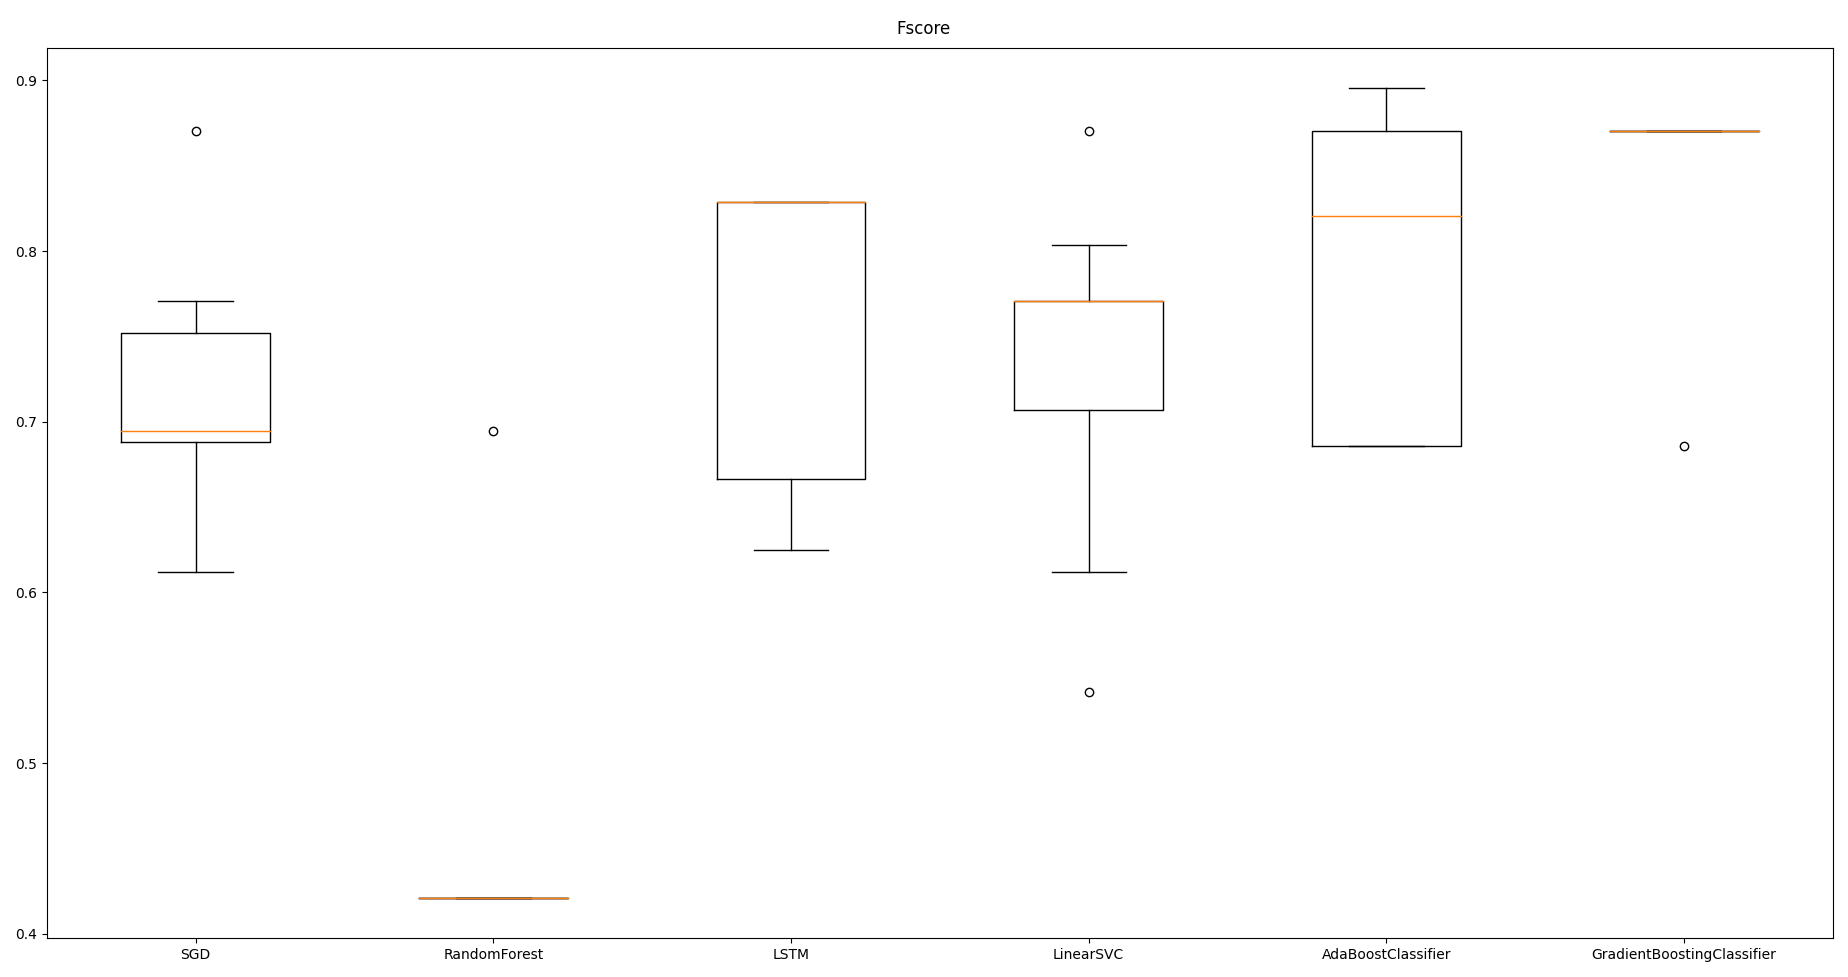
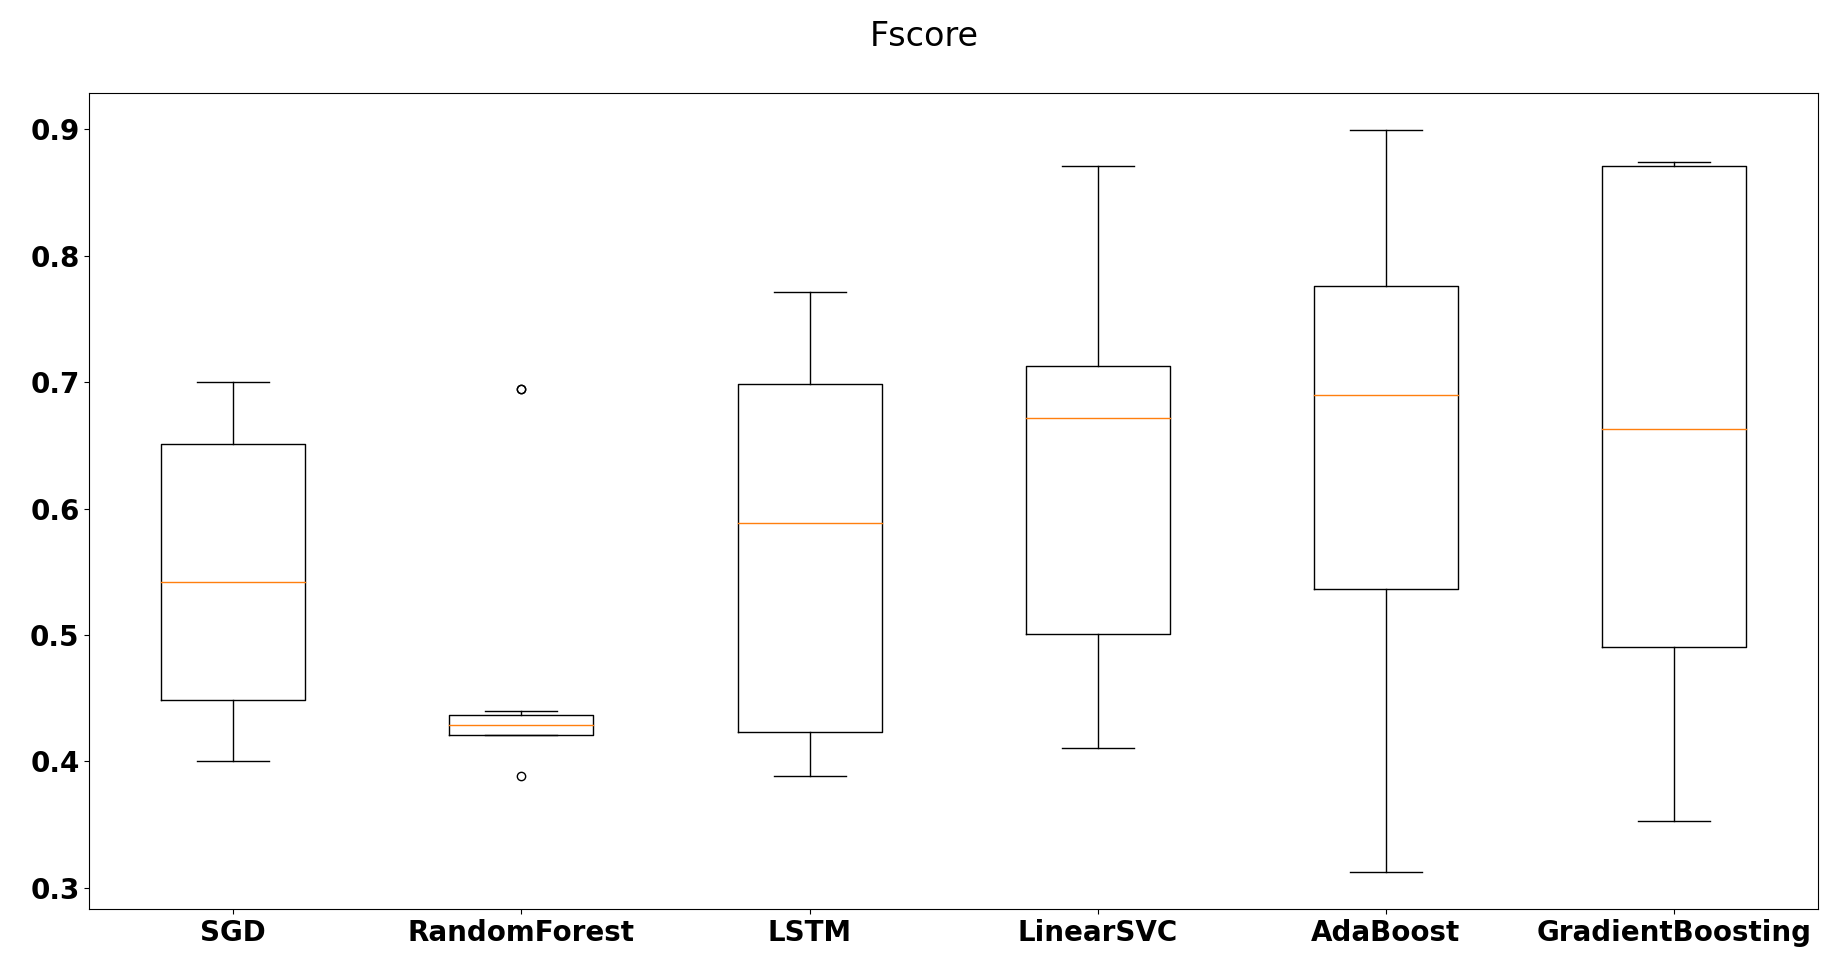
corrected figures

diff --git a/frame_based_main.py b/frame_based_main.py
@@ -52,7 +52,7 @@ def run():
     loss_tol = 1e-2
     max_depth = 2
     random_state = 0
-    for train_df, test_df, validation_df in next_cross_validation_split(dataset_dfs, limit=limit):
+    for train_df, _, test_df in next_cross_validation_split(dataset_dfs, limit=limit):
         sgd_model_name = f"SGD_MODEL_{count}"
         random_forest_model_name = f"RANDOM_FOREST_MODEL_{count}"
         svm_model_name = F"LINEAR_SVC_MODEL_{count}"
@@ -64,6 +64,7 @@ def run():
         train_sequences, train_labels = create_sequences(train_df,
                                                          window_length, overlap,
                                                          True)
+        print("Train-set class-distribution : ")
         print_class_distribution(train_labels)
 
         train_sequences = standardize_data(scaler, train_sequences,
@@ -73,6 +74,9 @@ def run():
         test_sequences, test_labels = create_sequences(test_df,
                                                        window_length,
                                                        overlap, False)
+        print("Test-set class-distribution : ")
+        print_class_distribution(test_labels)
+
         test_sequences = standardize_data(scaler, test_sequences,
                                           train=False,
                                           model_name=f"SGD_AND_RANDOM_FOREST_{count}",

diff --git a/plot_evaluation.py b/plot_evaluation.py
@@ -7,7 +7,8 @@ import matplotlib.pyplot as plt
 import numpy as np
 
 plt.rcParams.update({'font.size': 20})
-
+plt.rcParams["font.weight"] = "bold"
+plt.rcParams["axes.labelweight"] = "bold"
 
 def compare_models_plot(titel: str, results: np.ndarray, names: List[str]):
     print(np.asarray(results))
@@ -42,7 +43,7 @@ def plot_confusion_matrix(dfs: List[Tuple[str, pd.DataFrame]]):
     fig, axs = create_confusion_matrices_from_values(all_true_values,
                                                      all_predictions,
                                                      plot_names,
-                                                     ["Running", "Cut"]
+                                                     ["Not-Cut", "Cut"]
                                                      )
     return fig, axs
 
@@ -89,8 +90,8 @@ def run():
               ("RandomForest", random_forest_stats),
               ("LSTM", lstm_stats),
               ("LinearSVC", svm_stats),
-              ("AdaBoostClassifier", ada_stats),
-              ("GradientBoostingClassifier", boosting_stats),
+              ("AdaBoost", ada_stats),
+              ("GradientBoosting", boosting_stats),
               ]
 
     # plot_confusion_matrix(models)

diff --git a/seqeunce_based_main.py b/seqeunce_based_main.py
@@ -129,15 +129,15 @@ def run():
 
     results_dir = "evaluation"
     os.makedirs(results_dir, exist_ok=True)
-    window_length = 60 * 4  # 4 seconds
-    overlap = 0
+    window_length = 64 * 2 # 4 seconds
+    overlap = (window_length // 2) + 30
     features_num = 9
     input_shape = (window_length, features_num)
     epochs = 100
     models_and_data = []
     limit = 10
     count = 0
-    for train_df, test_df, validation_df in next_cross_validation_split(dataset_dfs, limit=limit):
+    for train_df, validation_df, test_df in next_cross_validation_split(dataset_dfs, limit=limit):
         model_name = f"LSTM_MODEL_{count}"
 
         scaler = StandardScaler()
